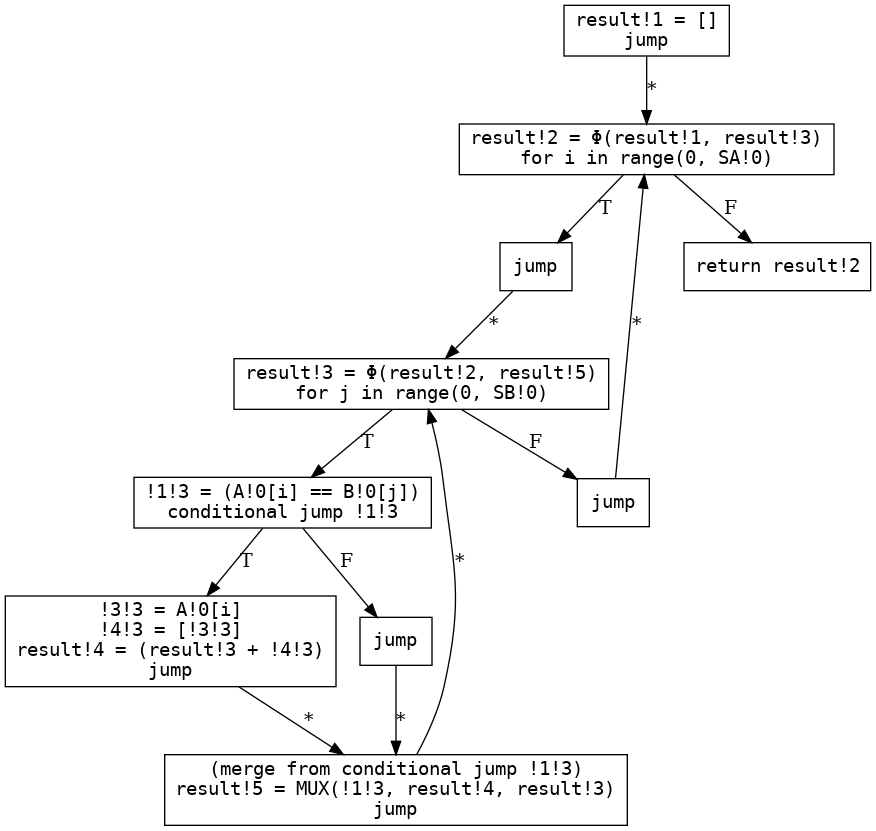
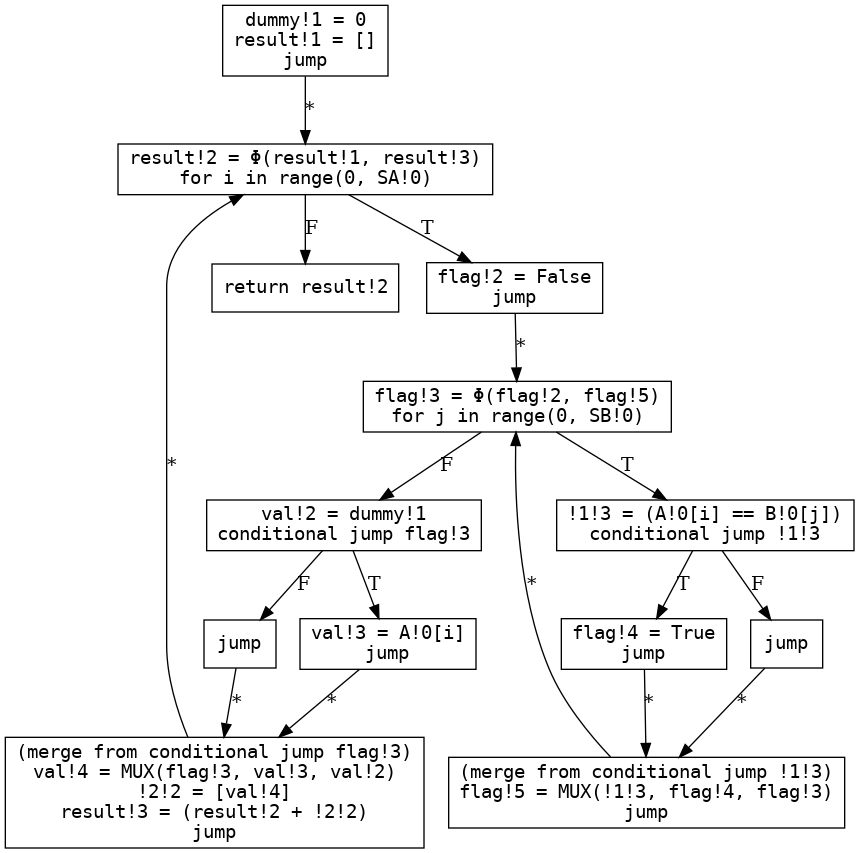
Deploying to gh-pages from  @ cdd6c9ac700a82315ef9c04ff4823da78688a59d 🚀

diff --git a/README.md b/README.md
@@ -390,17 +390,23 @@ import typing
 # requires: no repetition of elements in either A or B
 # requires: len(A) = SA, len(B) = SB
 def psi(A: list[int], SA, B: list[int], SB) -> list[int]:
+  dummy : int = 0
   result: list[int] = []
   for i in range(0,SA):
+    flag : Bool = False
     for j in range(0,SB):
       if A[i] == B[j]:
-        #overloaded +. This is append actually.
-        result = result + [A[i]]
+        flag = True
+    val : int = dummy
+    if flag:
+      val : int = A[i]
+    #overloaded +. This is append actually.
+    result = result + [val]
   return result
 
-A = [1,2,3]
-B = [2]
-intersect = psi(A,3,B,1)
+A = [4,2,3,1,10]
+B = [2,10,3,4,5,6,7]
+intersect = psi(A,5,B,7)
 print(intersect)
 
 
@@ -408,11 +414,17 @@ print(intersect)
 ### Restricted AST
 ```python
 def foo(A, SA, B, SB):
+    dummy = 0
     result = []
     for i in range(0, SA):
+        flag = False
         for j in range(0, SB):
             if (A[i] == B[j]):
-                result = (result + [A[i]])
+                flag = True
+        val = dummy
+        if flag:
+            val = A[i]
+        result = (result + [val])
     return result
 ```
 ### Three-address code CFG
@@ -426,16 +438,21 @@ def foo(A, SA, B, SB):
 ### Linear code with loops
 ```python
 def foo(A, SA, B, SB):
+    dummy!1 = 0
     result!1 = []
     for i in range(0, SA!0):
         result!2 = Φ(result!1, result!3)
+        flag!2 = False
         for j in range(0, SB!0):
-            result!3 = Φ(result!2, result!5)
+            flag!3 = Φ(flag!2, flag!5)
             !1!3 = (A!0[i] == B!0[j])
-            !3!3 = A!0[i]
-            !4!3 = [!3!3]
-            result!4 = (result!3 + !4!3)
-            result!5 = MUX(!1!3, result!4, result!3)
+            flag!4 = True
+            flag!5 = MUX(!1!3, flag!4, flag!3)
+        val!2 = dummy!1
+        val!3 = A!0[i]
+        val!4 = MUX(flag!3, val!3, val!2)
+        !2!2 = [val!4]
+        result!3 = (result!2 + !2!2)
     return result!2
 ```
 ### Dependency graph
